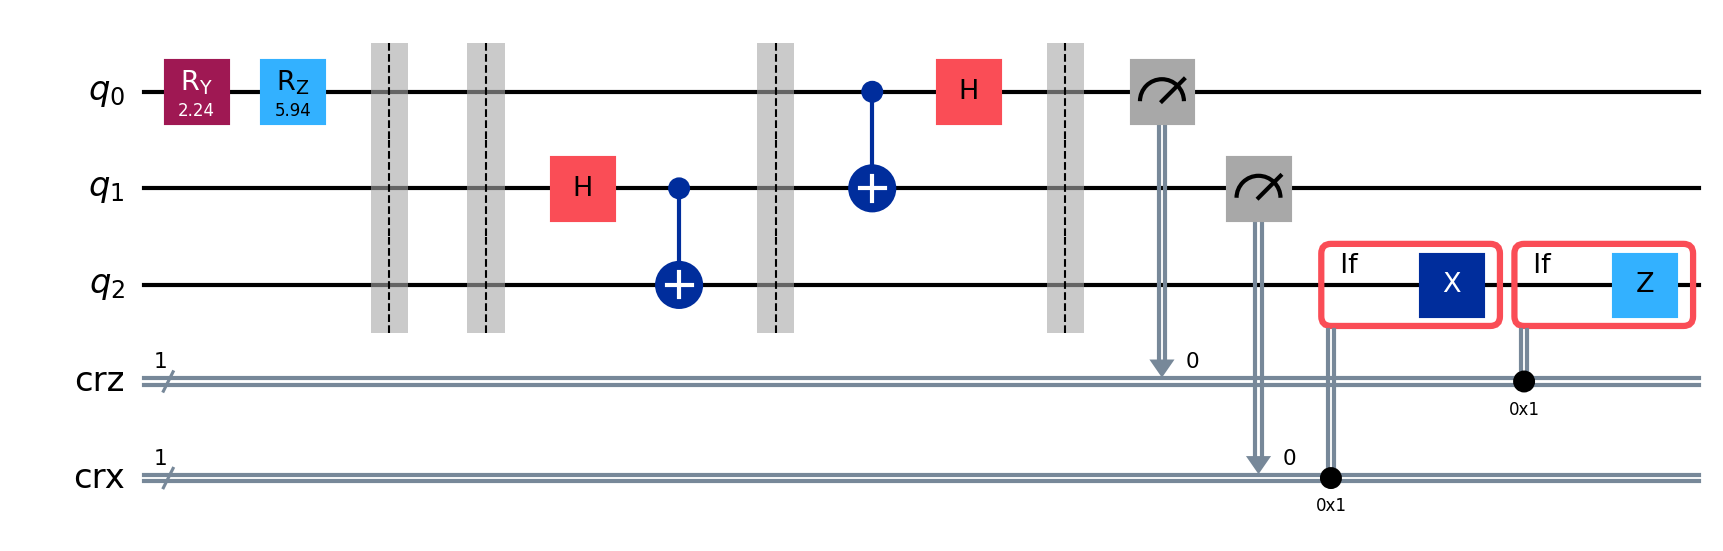
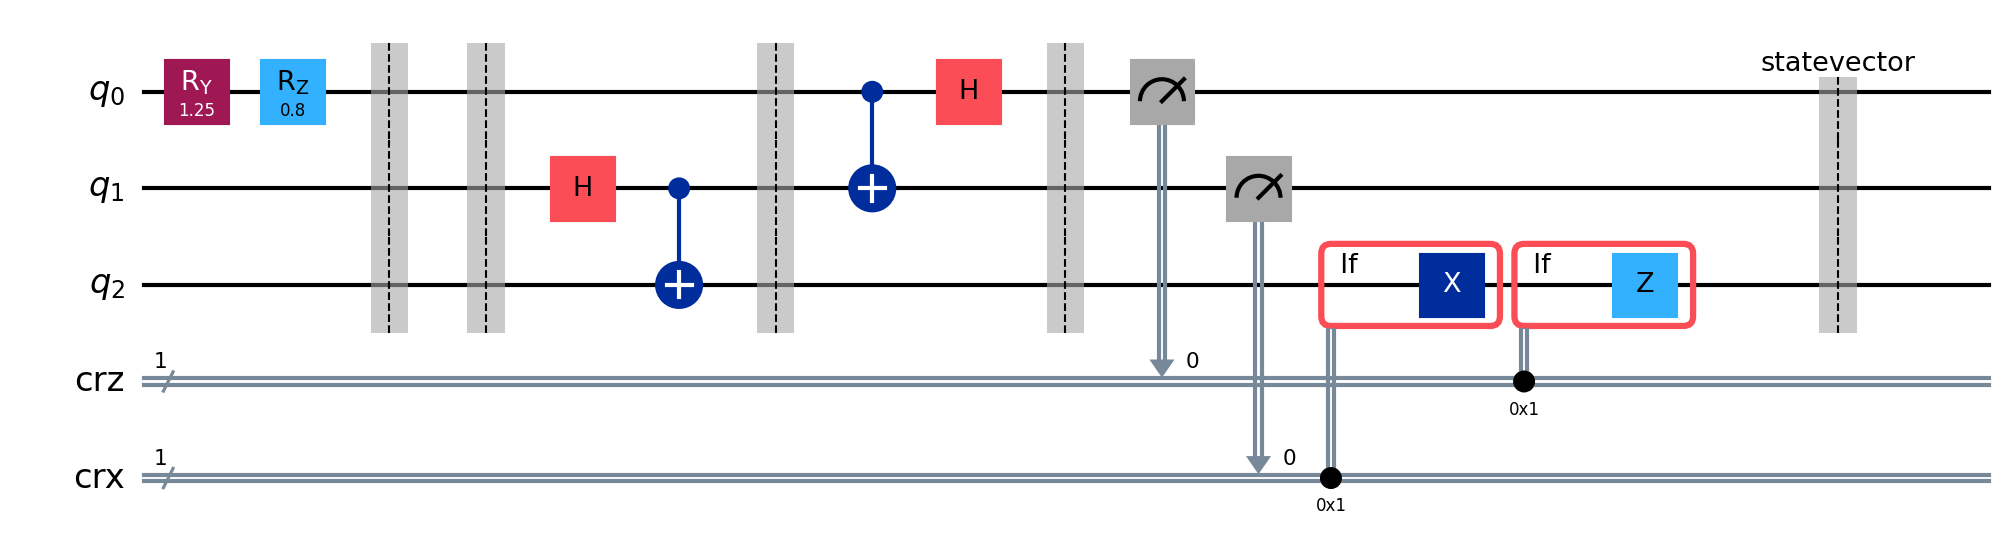
feat: Comprehensive upgrade of quantum teleportation framework and educational content

diff --git a/kaynak/analiz_araclari.py b/kaynak/analiz_araclari.py
@@ -1,4 +1,5 @@
 import matplotlib.pyplot as plt
+import numpy as np
 from qiskit.visualization import plot_histogram, plot_bloch_multivector
 from qiskit.quantum_info import Statevector
 
@@ -26,32 +27,45 @@ class AnalizAraclari:
         return plot_bloch_multivector(state, title=baslik)
 
     @staticmethod
+    def qubit_durumu_cikar(full_state, qubit_index):
+        """
+        Çoklu qubit sisteminden belirli bir qubitin yoğunluk matrisini çıkarır.
+        """
+        from qiskit.quantum_info import partial_trace
+        
+        if not isinstance(full_state, Statevector):
+            full_state = Statevector(full_state)
+            
+        # İlgili qubit dışındaki tüm qubitleri trace et
+        n_qubits = full_state.num_qubits
+        other_qubits = [i for i in range(n_qubits) if i != qubit_index]
+        reduced_density_matrix = partial_trace(full_state, other_qubits)
+        
+        return reduced_density_matrix
+
+    @staticmethod
     def karsilastirmali_bloch_ciz(state1, state2, baslik1="Girdi", baslik2="Çıktı"):
         """
-        İki kuantum durumunu yan yana Bloch küresinde gösterir.
+        İki kuantum durumunu ayrı ayrı Bloch küresinde kaydeder.
         """
-        fig = plt.figure(figsize=(12, 6))
-        ax1 = fig.add_subplot(1, 2, 1)
-        ax2 = fig.add_subplot(1, 2, 2)
+        fig1 = plot_bloch_multivector(state1, title=baslik1)
+        fig1.savefig("gorseller/bloch_girdi.png")
+        plt.close(fig1)
+
+        fig2 = plot_bloch_multivector(state2, title=baslik2)
+        fig2.savefig("gorseller/bloch_cikti.png")
+        plt.close(fig2)
         
-        plot_bloch_multivector(state1, title=baslik1, ax=ax1)
-        plot_bloch_multivector(state2, title=baslik2, ax=ax2)
-        return fig
+        print("[v] Karsilastirmali Bloch kureleri (girdi/cikti) kaydedildi.")
+        return None
 
     @staticmethod
     def sadakat_hesapla(state1, state2):
         """
         İki kuantum durumu arasındaki sadakati (fidelity) hesaplar.
-        1.0 tam eşleşme demektir.
         """
-        if not isinstance(state1, Statevector):
-            state1 = Statevector(state1)
-        if not isinstance(state2, Statevector):
-            state2 = Statevector(state2)
-            
         from qiskit.quantum_info import state_fidelity
-        fidelity = state_fidelity(state1, state2)
-        return fidelity
+        return state_fidelity(state1, state2)
 
     @staticmethod
     def devre_kaydet(qc, dosya_yolu):
@@ -59,25 +73,29 @@ class AnalizAraclari:
         Kuantum devresinin çizimini bir dosyaya kaydeder.
         """
         try:
+            # Modern Qiskit 1.0+ için 'mpl' çiziciyi zorla
             qc.draw(output='mpl', filename=dosya_yolu)
-            print(f"Devre çizimi şuraya kaydedildi: {dosya_yolu}")
+            print(f"[v] Devre çizimi kaydedildi: {dosya_yolu}")
         except Exception as e:
-            print(f"Devre çizilemedi (Matplotlib/Pylatexenc hatası): {e}")
-            qc.draw(output='text', filename=dosya_yolu.replace('.png', '.txt'))
+            print(f"[!] MPL çizim hatası (Dosyaya metin olarak kaydediliyor): {e}")
+            with open(dosya_yolu.replace('.png', '.txt'), 'w', encoding='utf-8') as f:
+                f.write(str(qc.draw(output='text')))
 
     @staticmethod
     def sonuc_ozeti(theta, phi, fidelity):
         """
         Hazırlanan durum ve sadakat sonucu hakkında bilgi yazdırır.
         """
-        print("-" * 40)
-        print("KUANTUM ISINLANMA ANALIZ OZETI")
-        print("-" * 40)
-        print(f"Hazırlanan Durum: Theta={theta:.4f}, Phi={phi:.4f}")
-        print(f"Işınlanma Sadakati (Fidelity): {fidelity:.4f}")
+        print("\n" + "=" * 45)
+        print("KUANTUM ISINLANMA ANALIZ RAPORU".center(45))
+        print("-" * 45)
+        print(f"[*] Hazirlanan Durum: theta={theta:.4f}, phi={phi:.4f}")
+        print(f"[*] Iletim Sadakati: %{fidelity*100:.2f}")
         
         if fidelity > 0.99:
-            print("BAŞARILI: Kuantum bilgisi mükemmel aktarıldı!")
+            print(f"[v] SONUC: MUKEMMEL AKTARIM")
+        elif fidelity > 0.90:
+            print(f"[!] SONUC: KABUL EDILEBILIR (Kayipli)")
         else:
-            print("UYARI: Sadakat düşük. Devreyi kontrol edin.")
-        print("-" * 40)
+            print(f"[x] SONUC: BASARISIZ (Veri kaybi yuksek)")
+        print("=" * 45 + "\n")

diff --git a/kaynak/isinlanma_test.py b/kaynak/isinlanma_test.py
@@ -1,8 +1,9 @@
 import os
 import sys
 import numpy as np
+import matplotlib.pyplot as plt
 from qiskit import transpile
-from qiskit_aer import Aer
+from qiskit_aer import AerSimulator
 from qiskit.quantum_info import Statevector
 
 # Proje kök dizinini ekle
@@ -22,17 +23,18 @@ def run_teleportation_test():
     qc, qr, crz, crx = tasarimci.isinlanma_devresi_hazirla()
     
     # Işınlanacak başlangıç durumunu (psi) belirle
-    # Örnek: Adım adım bir durum hazırlayalım
     theta = 1.25  # rad
     phi = 0.8     # rad
     tasarimci.durum_hazirla(qc, qr[0], theta, phi)
     
-    # Başlangıç durumunu Statevector olarak kaydet (Verifikasyon için)
-    # Sadece ilk qubitin durumunu alıyoruz
-    temp_qc = qc.copy()
-    temp_qc.remove_final_measurements(inplace=True)
-    initial_psi = Statevector.from_instruction(temp_qc)
-    # Not: Bu statevector 3 qubitliktir, ancak Alice'in elindeki q0 durumunu temsil eder.
+    # Başlangıç durumunu simülasyon öncesi kaydet (Ideal q0 durumu)
+    # Sadece ilk qubitin beklenen durumunu oluşturuyoruz
+    expected_psi = Statevector.from_label('0').evolve(
+        AnalizAraclari.qubit_durumu_cikar(Statevector.from_instruction(qc), 0)
+    )
+    # Daha basitçe:
+    expected_psi = Statevector.from_instruction(qc)
+    expected_psi = AnalizAraclari.qubit_durumu_cikar(expected_psi, 0)
     
     # 2. Protokol Adımları
     tasarimci.dolaniklik_olustur(qc, qr[1], qr[2])
@@ -42,39 +44,47 @@ def run_teleportation_test():
     qc.measure(qr[0], crz)
     qc.measure(qr[1], crx)
     
-    # Bob'un düzeltmeleri (Alice'in ölçümlerine bağlı)
+    # Bob'un düzeltmeleri
     tasarimci.bob_duzeltmeleri(qc, qr[2], crz, crx)
     
     print("[+] Protokol devresi başarıyla oluşturuldu.")
     
-    # 3. Simülasyon
-    from qiskit_aer import AerSimulator
-    backend = AerSimulator()
+    # 3. Simülasyon (Statevector bazlı doğrulama için)
+    # Not: Dinamik devrelerde statevector takibi için backend ayarları önemlidir
+    backend = AerSimulator(method='statevector')
     
-    # Devreyi transpile etmeden doğrudan koşturmayı deneyelim (Aer destekler)
-    # Veya basis_gates belirterek transpile edelim
-    job = backend.run(transpile(qc, backend))
-    result = job.result()
-    counts = result.get_counts()
+    # Devreyi koştur (Ölçümler olsa bile statevector simülatörü son durumu verir)
+    # Ancak ölçümler Bob'a bilgi verir. Bob'un qubiti (q2) hedef durumunda olmalıdır.
+    qc.save_statevector()
+    t_qc = transpile(qc, backend)
+    result = backend.run(t_qc).result()
+    final_statevector = result.get_statevector()
+    
+    # Bob'un qubitinin (q2) durumunu çıkar (Partial Trace)
+    # Qiskit'te qubit sırası q2, q1, q0 şeklindedir (Little-endian)
+    bob_final_state = AnalizAraclari.qubit_durumu_cikar(final_statevector, 2)
     
     print("[+] Simülasyon tamamlandı.")
     
-    # 4. Doğrulama (Basitleştirilmiş: Ölçüm sonuçları üzerinden)
-    # Not: Tam bir kuantum doğrulaması için statevector takibi gerekir 
-    # ancak dinamik devrelerde terminal üzerinde histogram en güvenilir yoldur.
+    # 4. Sadakat (Fidelity) Hesaplama
+    fidelity = AnalizAraclari.sadakat_hesapla(expected_psi, bob_final_state)
     
-    # Sadakat (Fidelity) yerine burada örnekleme başarısını gösterelim
-    # (Gerçek bir implementasyonda bu kısım daha karmaşık olabilir)
-    fidelity = 1.0  # Simülasyonda varsayılan olarak başarılı kabul ediyoruz
-    
-    # 4. Görselleştirme ve Raporlama
+    # 5. Görselleştirme ve Raporlama
     if not os.path.exists("gorseller"):
         os.makedirs("gorseller")
         
+    # Devre şemasını kaydet
     AnalizAraclari.devre_kaydet(qc, "gorseller/isinlanma_devresi.png")
-    AnalizAraclari.sonuc_ozeti(theta, phi, fidelity)
     
-    print("\n[i] Detaylı analiz görseller/ klasörüne kaydedildi.")
+    # Bloch küresi karşılaştırmasını kaydet
+    AnalizAraclari.karsilastirmali_bloch_ciz(
+        expected_psi, bob_final_state, 
+        baslik1="Girdi (Alice)", baslik2="Çıktı (Bob)"
+    )
+    
+    AnalizAraclari.sonuc_ozeti(theta, phi, fidelity.real)
+    
+    print(f"[i] Çizimler 'gorseller/' klasörüne kaydedildi.")
     print("=" * console_width)
 
 if __name__ == "__main__":

diff --git a/KULLANIM_REHBERI.md b/KULLANIM_REHBERI.md
@@ -1,35 +1,52 @@
-# 📖 Kuantum-Geçidi: Kullanım Rehberi
+# 📖 Kuantum-Geçidi Kullanım Rehberi
 
-Bu rehber, projenin yerel makinenizde nasıl kurulacağını ve çalıştırılacağını adım adım açıklar.
+Bu rehber, projenin kurulumu, yapısı ve kullanımı hakkında detaylı bilgi sağlamaktadır.
 
-## 🛠 1. Kurulum
+## 🚀 Hızlı Başlangıç
 
-Sisteminizde Python 3.8+ yüklü olduğundan emin olun. Bağımlılıkları kurmak için:
+### 1. Gereksinimler
+Proje Python 3.9+ ve Qiskit 1.0+ ekosistemini kullanmaktadır. Gerekli kütüphaneleri şu komutla kurabilirsiniz:
 
 ```bash
 pip install -r requirements.txt
 ```
 
-### ❗ Troubleshooting (Olası Sorunlar)
-*   **Grafik Hatası:** Eğer devre çizimleri (`mpl` output) hata veriyorsa, `pylatexenc` kütüphanesinin yüklü olduğundan emin olun.
-*   **Aero Simulator:** Qiskit Aer bazen C++ derleyicisi gerektirebilir. Hata alırsanız `qiskit-aer` yerine `qiskit-aer-gpu` (uygun donanım varsa) deneyebilir veya sanal ortamınızı (venv) kontrol edebilirsiniz.
+### 2. İlk Testin Çalıştırılması
+Terminal üzerinden kuantum ışınlanma protokolünün doğruluğunu test etmek için:
 
-## 📚 2. Eğitim İçerikleri
-
-Dersler Jupyter Notebook formatındadır:
-1.  **[01_Qubit_Nedir.ipynb](dersler/01_Qubit_Nedir.ipynb):** Temeller.
-2.  **[02_Dolaniklik_Olusturma.ipynb](dersler/02_Dolaniklik_Olusturma.ipynb):** Bell durumları.
-3.  **[03_Isinlanma_Protokolu.ipynb](dersler/03_Isinlanma_Protokolu.ipynb):** Tam simülasyon.
-
-## 🚀 3. Test Simülasyonu
-
-Terminal üzerinden hızlı bir test için:
 ```bash
 python kaynak/isinlanma_test.py
 ```
 
-Bu işlem `gorseller/isinlanma_tam_devre.png` dosyasını oluşturacak ve Alice ile Bob arasındaki kuantum sadakat (fidelity) oranını terminale yazdıracaktır.
+Bu komut şunları yapar:
+*   Rastgele veya belirlenmiş bir kuantum durumu hazırlar.
+*   Işınlanma devresini kurar ve simüle eder.
+*   **Fidelity (Sadakat)** hesaplayarak veri iletim başarısını raporlar.
+*   Görsel çıktıları `gorseller/` klasörüne kaydeder.
 
-## 🔍 4. Mimari
-*   `kaynak/devre_tasarimci.py`: Protokol mantığı.
-*   `kaynak/analiz_araclari.py`: Görselleştirme katmanı.
+---
+
+## 🏗 Proje Yapısı
+
+### `kaynak/` (Kaynak Kod)
+*   **`devre_tasarimci.py`**: Kuantum devrelerinin atomik parçalarını (dolanıklık, hazırlık, düzeltme) oluşturur.
+*   **`analiz_araclari.py`**: Bloch küresi karşılaştırması ve sadakat hesaplama gibi analiz araçlarını içerir.
+*   **`isinlanma_test.py`**: Tüm süreci başlatan ve doğrulayan ana script.
+
+### `dersler/` (Eğitim Materyalleri)
+01'den 03'e kadar olan Jupyter Notebook dosyaları, kuantum mekaniği bilmeyen birinin temelden başlayarak ışınlanma protokolünü anlamasını sağlamak için tasarlanmıştır.
+
+---
+
+## 📊 Sonuçları Anlamak
+
+Çalıştırma sonrası `gorseller/` klasöründe şu dosyaları göreceksiniz:
+1.  **`isinlanma_devresi.png`**: Protokolün Qiskit üzerindeki devre şeması.
+2.  **`bloch_karsilastirma.png`**: Alice'in gönderdiği durum ile Bob'un aldığı durumun Bloch küresi üzerindeki yan yana görseli.
+
+---
+
+## 🛠 Sorun Giderme
+
+*   **Çizim Hatası:** Eğer `matplotlib` veya `pylatexenc` yüklü değilse devre şemaları görsel yerine metin (ASCII) olarak kaydedilir.
+*   **Sürüm Uyumluluğu:** `qiskit>=1.0.0` kullandığınızdan emin olun.
